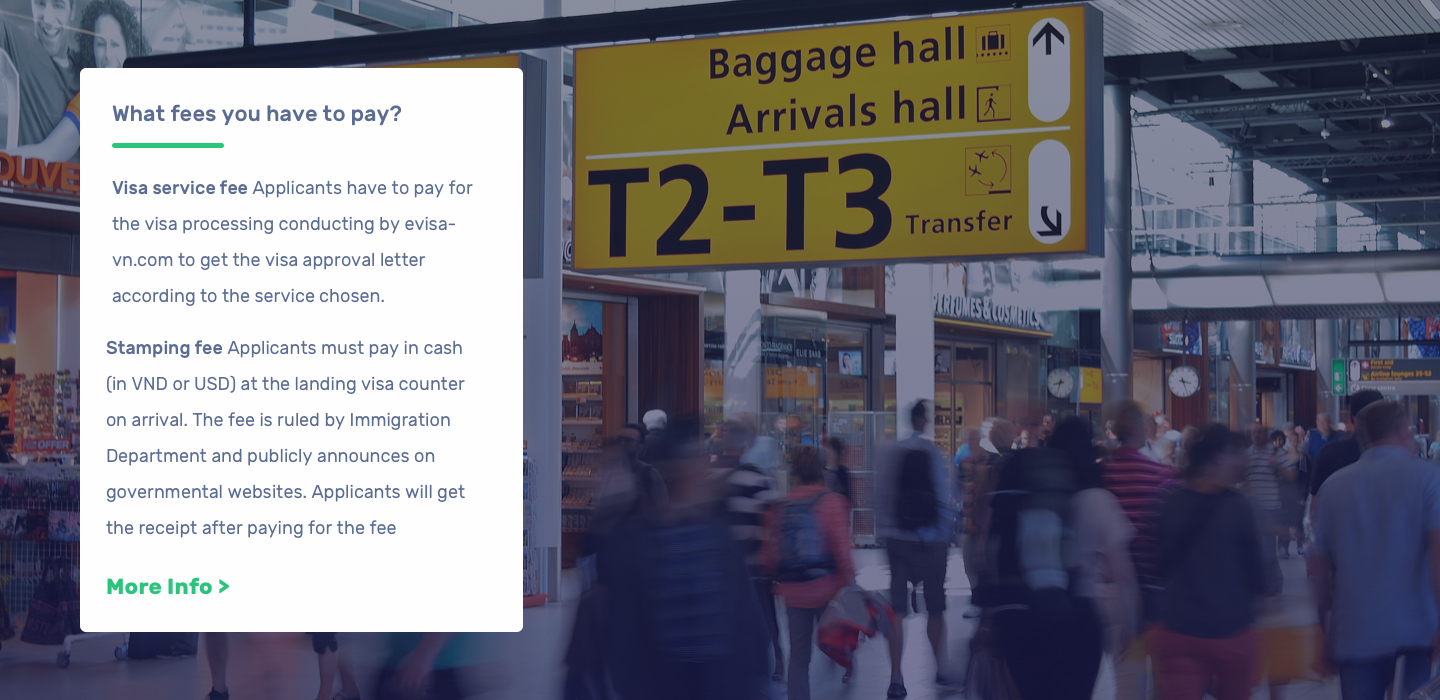
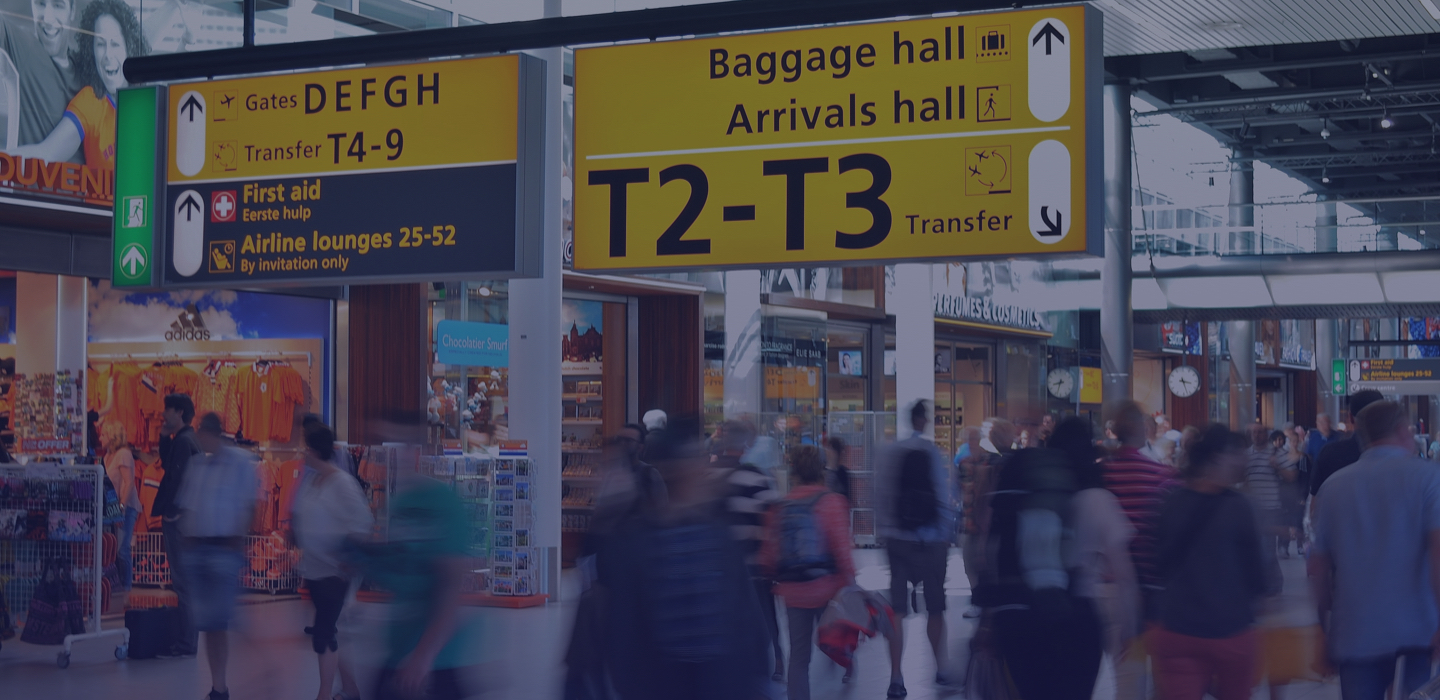
Add fees page

Changed region(s): [[0.0312, 0.09, 0.375, 0.9]]

diff --git a/pages/fees.js b/pages/fees.js
@@ -1,0 +1,50 @@
+// @flow
+// vendor
+import React, { Fragment } from 'react';
+// custom
+import { Flexbox, Image, Text } from '../components/ui';
+import { spacingValues, iconSizes } from '../constants/ui';
+import ContentMaxWidth from '../components/ContentMaxWidth';
+import Card from '../components/Card';
+import Divider from '../components/Divider';
+import Heading from '../components/Heading';
+import FeesCard from '../components/FeesCard';
+import ServicesCard from '../components/ServicesCard';
+import PaymentMethodImages from '../components/PaymentMethodImages';
+
+/**
+ * Fees show all the fees a person must pay to apply visa
+ */
+type Props = {};
+type State = {};
+class Fees extends React.Component<Props, State> {
+  render() {
+    return (
+      <Fragment>
+        <FeesCard />
+        <ContentMaxWidth>
+          <Flexbox
+            column
+            paddingTop={spacingValues.blockPaddingTop}
+            alignItems="center"
+          >
+            <Image
+              width={iconSizes.large}
+              src="../static/icons/world.svg"
+              alt="world icon"
+            />
+            <Text paddingTop={2} textAlign="center" fontSize="xl">
+              Select your country to see the price in details
+            </Text>
+          </Flexbox>
+        </ContentMaxWidth>
+
+        <ServicesCard />
+
+        <PaymentMethodImages />
+      </Fragment>
+    );
+  }
+}
+
+export default Fees;

diff --git a/components/Header.js b/components/Header.js
@@ -128,11 +128,7 @@ class Header extends React.PureComponent<Props, State> {
           paddingHorizontal={1}
           paddingVertical={1}
         >
-          <Image
-            src={'../static/icons/phone-ico.svg'}
-            width={5}
-            alt={'phone'}
-          />
+          <Image src="../static/icons/phone-ico.svg" width={5} alt={'phone'} />
           <Text fonsize={'l'} color={'white'} paddingLeft={2}>
             {companyInfo.phoneString}
           </Text>
@@ -151,7 +147,7 @@ class Header extends React.PureComponent<Props, State> {
           paddingHorizontal={1}
           paddingVertical={1}
         >
-          <Image src={'../static/icons/email-ico.svg'} width={5} alt={'mail'} />
+          <Image src="../static/icons/email-ico.svg" width={5} alt={'mail'} />
           <Text fonsize={'l'} color="white" paddingLeft={2}>
             {companyInfo.email}
           </Text>

diff --git a/constants/ui.js b/constants/ui.js
@@ -50,12 +50,13 @@ const spacingValues = {
 };
 
 const iconSizes = {
-  small: 30 / 5,
-  default: 60 / 5,
+  small: 30 / spacingUnits.desktop,
+  default: 60 / spacingUnits.desktop,
+  large: 100 / spacingUnits.desktop,
 };
 
-const headerHeight = 140 / 5;
-const contentMaxWidth = 1440 / 5;
+const headerHeight = 140 / spacingUnits.desktop;
+const contentMaxWidth = 1440 / spacingUnits.desktop;
 
 const paddingAll = {
   paddingHorizontal: 5,
